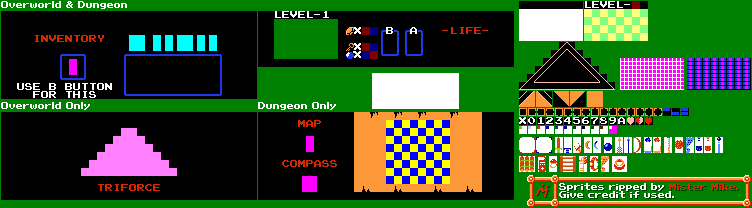
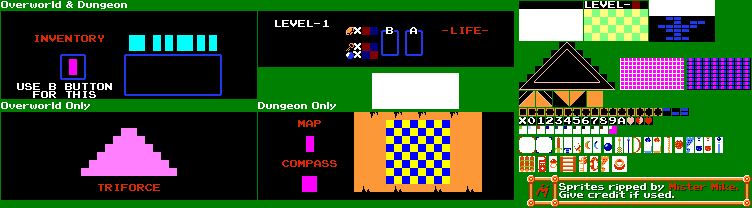
Implements static Map and Compass UI features

Changed region(s): [[0.367, 0.0577, 0.4588, 0.2885], [0.8564, 0.0, 0.9481, 0.2019]]

diff --git a/sprint0Real/EnemyStuff/DeathSprites/DeathSprite.cs b/sprint0Real/EnemyStuff/DeathSprites/DeathSprite.cs
@@ -30,25 +30,25 @@ namespace sprint0Real.EnemyStuff.DeathSprites
             {
                 sourceRectangle = new Rectangle(0, 0, 16, 16);
                 destinationRectangle = new Rectangle((int)location.X,
-                (int)location.Y, 32, 32);
+                (int)location.Y, 16 * Game1.RENDERSCALE, 16 * Game1.RENDERSCALE);
             }
             else if (currentFrame == 1)
             {
                 sourceRectangle = new Rectangle(0, 16, 16, 16);
                 destinationRectangle = new Rectangle((int)location.X,
-                (int)location.Y, 14, 18);
+                (int)location.Y, 16 * Game1.RENDERSCALE, 16 * Game1.RENDERSCALE);
             }
             else if (currentFrame == 2)
             {
                 sourceRectangle = new Rectangle(308, 14, 7, 9);
                 destinationRectangle = new Rectangle((int)location.X,
-                (int)location.Y, 14, 18);
+                (int)location.Y, 16 * Game1.RENDERSCALE, 16 * Game1.RENDERSCALE);
             }
             else
             {
                 sourceRectangle = new Rectangle(308, 14, 7, 9);
                 destinationRectangle = new Rectangle((int)location.X,
-                (int)location.Y, 14, 18);
+                (int)location.Y, 16 * Game1.RENDERSCALE, 16 * Game1.RENDERSCALE);
             }
 
             spriteBatch.Draw(sprites, destinationRectangle, sourceRectangle, Color.White);

diff --git a/sprint0Real/MenusAndUI/MenuUI.cs b/sprint0Real/MenusAndUI/MenuUI.cs
@@ -27,6 +27,9 @@ public class MenuUI
     private int ItemYCoord;
     private int ItemSelectFrameCount;
 
+    private bool HasMap = false;
+    private bool HasCompass = false;
+
     private Inventory.Items CurrentItem;
     private Inventory inv;
 
@@ -87,6 +90,16 @@ public class MenuUI
             }
         }
 
+        if (HasMap)
+        {
+            spriteBatch.Draw(UITexture, new Rectangle(UIXCoord + Scale * (48), UIYCoord + Scale * (24), 8 * Scale, 16 * Scale), new Rectangle(601, 156, 8, 16), Color.White);
+        }
+
+        if (HasCompass)
+        {
+            spriteBatch.Draw(UITexture, new Rectangle(UIXCoord + Scale * (44), UIYCoord + Scale * (64), 15 * Scale, 16 * Scale), new Rectangle(612, 156, 15, 16), Color.White);
+        }
+
     }
 
     public void Update(GameTime gametime, ILink link)
@@ -99,7 +112,8 @@ public class MenuUI
 
         ItemSelectDestinationRectangle = new Rectangle(UIXCoord + Scale * (128 + XSelect * 24), ItemYCoord + Scale * (48 + YSelect * 16), 16 * Scale, 16 * Scale);
 
-
+        if (!HasMap && inv.HasMap) HasMap = true;
+        if (!HasCompass && inv.HasCompass) HasCompass = true;
 
         if (ItemSelectFrameCount <= 20) ItemSelectSourceRectangle = ItemSelectRed;
         else if (ItemSelectFrameCount <= 40) ItemSelectSourceRectangle = ItemSelectBlue;

diff --git a/sprint0Real/LinkStuff/Inventory.cs b/sprint0Real/LinkStuff/Inventory.cs
@@ -56,6 +56,10 @@ namespace sprint0Real.LinkStuff
             Staff
         }
 
+        public bool HasMap { get; set; }
+
+        public bool HasCompass { get; set; }
+
         public Inventory()
         {
             //All items set to true by default for testing
@@ -63,6 +67,8 @@ namespace sprint0Real.LinkStuff
             {
                 InventoryList.Add(item, true);
             }
+            HasMap = true;
+            HasCompass = true;
             ObtainItem(Items.Boomerang);
             CurrentItem = Items.Boomerang;
             CurrentSword = Swords.Wood_Sword;

diff --git a/sprint0Real/MenusAndUI/UI.cs b/sprint0Real/MenusAndUI/UI.cs
@@ -74,6 +74,11 @@ public class UI : IUI
         {
             spriteBatch.Draw(UITexture, new Rectangle(UIXCoord + 128 * Scale, UIYCoord + 24 * Scale, 8 * Scale, 16 * Scale), UIHelper.ItemSpriteHelper(CurrentItem), Color.White);
         }
+
+        if (link.GetInventory().HasMap)
+        {
+            spriteBatch.Draw(UITexture, new Rectangle(UIXCoord + 16 * Scale, UIYCoord + 8 * Scale, 64 * Scale, 40 * Scale), new Rectangle(650, 1, 64, 40), Color.White);
+        }
     }
 
     public void Update(GameTime gametime, ILink link)
